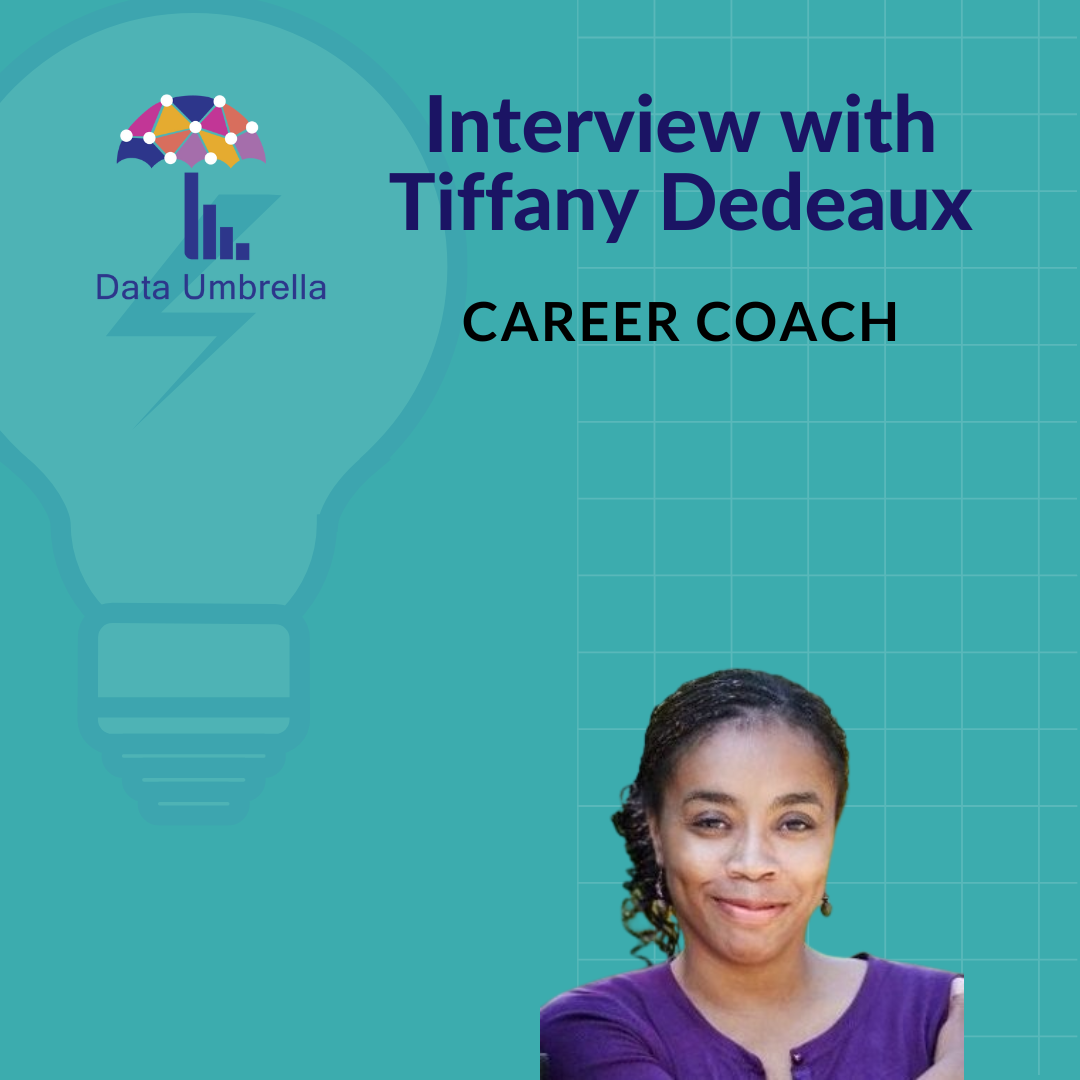
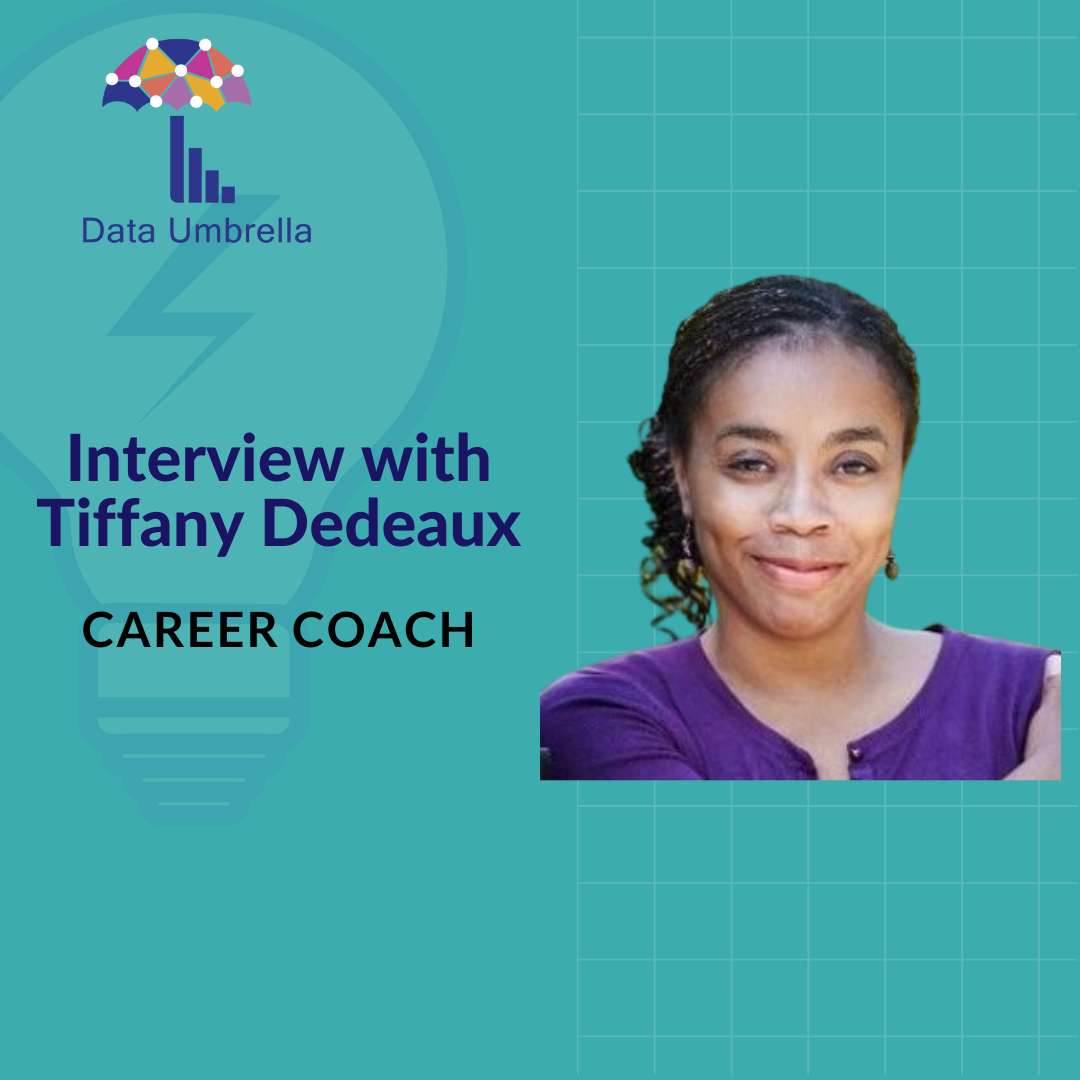
fix

diff --git a/_posts/2023-02-06-tiffany-career-coach.md b/_posts/2023-02-06-tiffany-career-coach.md
@@ -1,0 +1,71 @@
+---
+layout: post
+title:  Meet Tiffany, a Tech Career Coach
+description:  Tiffany shares about her background in career coaching
+date:   2023-02-06 15:00:35 +0300
+image:  '/images/blogs/tiffany_interview.png'
+tags:   [datascience, career]
+---
+
+Summary posted by: [Sangam SwadiK](https://www.linkedin.com/in/sangam-swadi-k/)
+
+1. __Tell us a bit about yourself. (where you are located, what you do, how long you have been coaching, anything else you would like to share about your background)__
+
+    I am a Career Coach that specializes in the tech sector because I am a forward-focused professional that thrives in creative environments that foster innovation. Having settled in the Greater Seattle Area I have loved travelling to support web developers and data scientists across the west coast from Seattle and Portland to San Fran and Los Angeles. 
+
+    After I completed a software training contract in Australia, I came back to give presentations at Microsoft, got my Masters in Psychology, and completed coach training. Some 10 years later after launching my second company, [Sacred Time](https://www.sacredtime.careers/), I am looking to not just help tech professionals find their next role but to have a greater impact in whatever they choose to do. 
+
+    I think tech is not a thing you do but a way of life. Being the type that was born to create, I forgot that I learned to code HTML until I jumped into my first tech bootcamp and started building the internal curriculum using this skill. 
+
+    As a coach, I am here to support you in reaching that next level even if no one else thinks it is possible. I am curious about what you want, I help you find the words to give that vision a voice, and I cheer you on as you realize you are capable of so much more and are ready to try.
+
+2. __How does your coaching practice work?__
+
+    While I still have people who come to book a single call and then go off and get interviews or jobs, I have more and more people looking to create a greater impact in the world, so now I offer a [Discovery Call](https://sacred-time.thinkific.com/courses/discovery-call) where we can have a coaching conversation to see what you really want to accomplish. 
+
+    Usually, this conversation inspires ideas for the next steps. If inspired we will set up a second, Connection Call, where we will begin coaching toward your end goal. When it feels like a good fit we will partner to build a plan for how often we will coach. This can be individual, 1:1 support or you can join a set program like my job search support bootcamp, [Career GPS](https://sacred-time.thinkific.com/courses/career-gps) or leadership program the [Way Maker Mastermind](https://www.sacredtime.careers/way-maker ).
+
+    Coaching is meant to help you become self-sufficient so there will come a time when our work is done, but I am always around.  I call myself Your Partner in Change, and I find that some clients return every time there is something changing in their professional lives.
+
+3. __What can coachees expect?  What’s the process?  How often do you typically meet?__
+
+    For coachees the best process is one they help to create because everyone needs something different. In general, I find that it is helpful to meet at least bi-weekly to start and build momentum on a topic. I do notice that movement toward a goal generally happens within four sessions and a sustainable rhythm happens within seven.
+
+    The key to picking a good coach is one that asks open-ended questions and allows you the space to think and be yourself. It is also important to be clear on what you need.  Coaching is forward focused whereas therapy digs into what in your past might be the root cause of an issue.  Additionally, a coach is more of a thought partner and a consultant is one that will tell you what to do and how to do it.
+
+4. __Do you have resources to share with people with a limited budget?__
+
+    While the [Discovery Call](https://sacred-time.thinkific.com/courses/discovery-call) is free, I do also offer a monthly [Career Q&A](https://live.vcita.com/site/sacredtime/online-scheduling?service=0pa1067d2ryymmot) session where those who sign up can come and ask me anything about anything job search or career-related. I do answer some questions in video form, so for that, I created a [YouTube channel](https://youtube.com/sacredtimecareercoaching)
+
+5. __How can people get in touch with you?__
+
+    The best way to get in touch with me is through my [LinkedIn page](https://www.linkedin.com/in/tiffanydedeaux/) or through the [Sacred Time website](https://sacred-time.com/).
+
+## Other questions:
+
+1. __Do you have testimonials from other coachees we can link to?__
+
+    In addition to the reviews on my [LinkedIn Services page](https://www.linkedin.com/services/page/8a90583078b2392231), I have begun to collect and share a series of [case studies](https://drive.google.com/drive/folders/1nQCdA-0nNUaQjLf0Aa2Dj08AOA4VzDdd?usp=share_link) that details how I partner with clients to achieve breakthroughs. 
+
+1. __Do you have a blog / website / newsletter?__
+
+    [Blog](https://sacred-time.com/blog)
+
+    [Website](https://www.sacredtime.careers/ )
+
+    [Newsletter](https://sacred-time.com/newsletter/ ) 
+
+2. __When do you discuss pricing?  OR how much should people budget for coaching?__
+
+    When it comes to pricing I am finding some prefer to hear about it upfront but they are also looking for a one-and-done transaction. For those who are looking to have more of an impact in their work, are processing career trauma, or need to peel back a lot of layers to find clarity, it is better to have a couple of conversations before talking price to be sure you are truly investing in something you need.
+
+## Bio
+EMPOWERING PURPOSE-DRIVEN PROFESSIONALS TO CREATE CAREER SATISFACTION.
+Tiffany A. Dedeaux, Professional Certified Coach (PCC) and Certified Professional Resume Writer (CPRW), empowers purpose-driven professionals to work outside the box to find personal growth and career satisfaction. Having moved from video editing to software training, she is a cross-pollinator of ideas with a background in broadcast journalism, social psychology, and cultural transformation. 
+
+In addition to supporting tech industry leaders on the front lines of creation, innovation, and connection, Tiffany is passionate about helping rising stars to find their voice and prepare to meet every challenge. Are you ready to live your best life now? Let’s get to work!
+
+
+### Connect with the Speaker, Tiffany Dedeaux
+- LinkedIn: [Tiffany A. Dedeaux](https://www.linkedin.com/in/tiffanydedeaux/)
+
